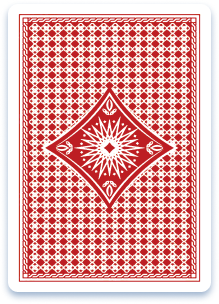
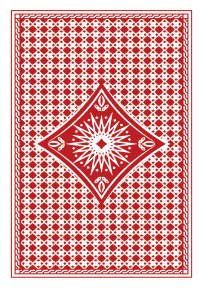
fix: resize back face card size

diff --git a/components/ui/poker-card.tsx b/components/ui/poker-card.tsx
@@ -51,7 +51,7 @@ export const PokerCard = ({ suit, rank, flip = false }: Props) => {
   if (flip)
     return (
       <Image
-        className="aspect-[4/6] w-[150px]"
+        className="aspect-[4/6] w-[150px] bg-white rounded-md shadow-md border border-gray-200"
         alt="back face of poker card"
         src={BackFace.src}
         width={BackFace.width}
